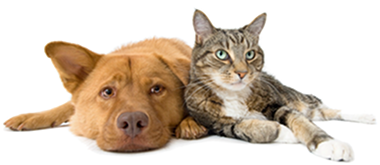
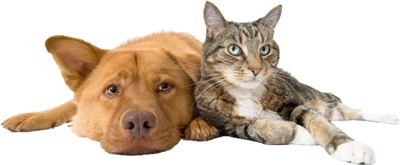
Replaced cat/dog image, added facebook and twitter links.

diff --git a/app/assets/stylesheets/layout.css.scss b/app/assets/stylesheets/layout.css.scss
@@ -59,7 +59,7 @@ a:hover { color: $hover_color; }
     text-align: right;
     font-size: 90%;
     margin: 0;
-    padding: 1.25em 0 0 0;
+    padding: .25em 0 0 0;
   }
 }
 
